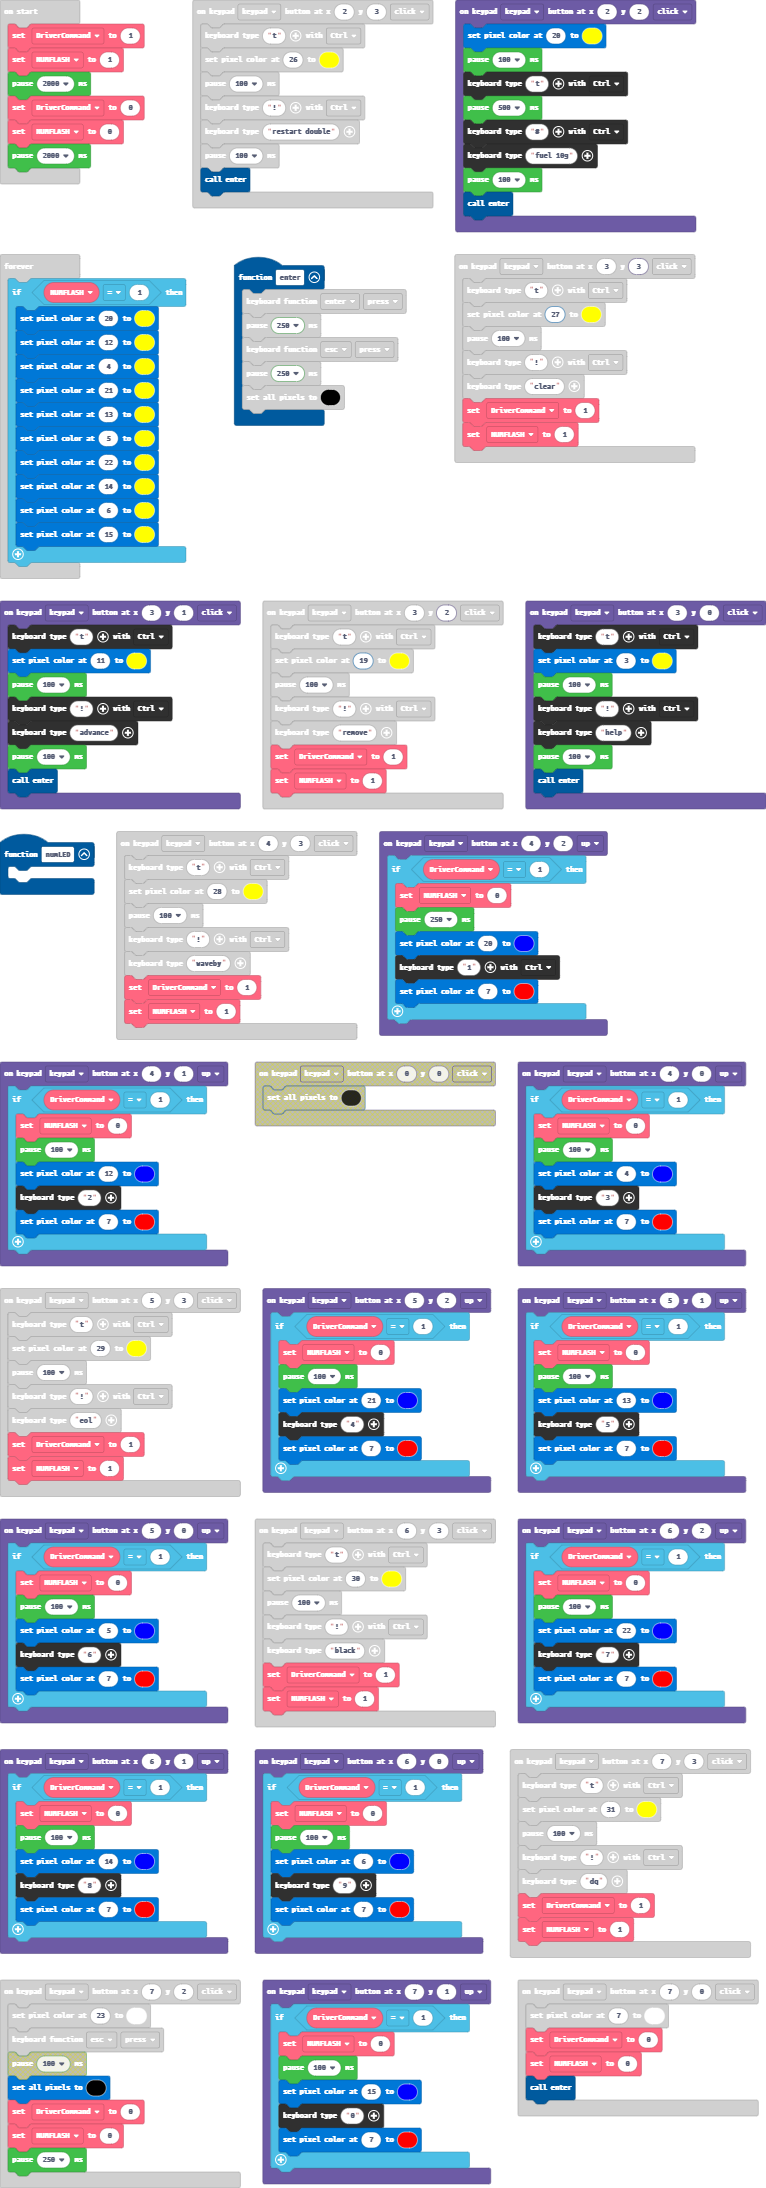
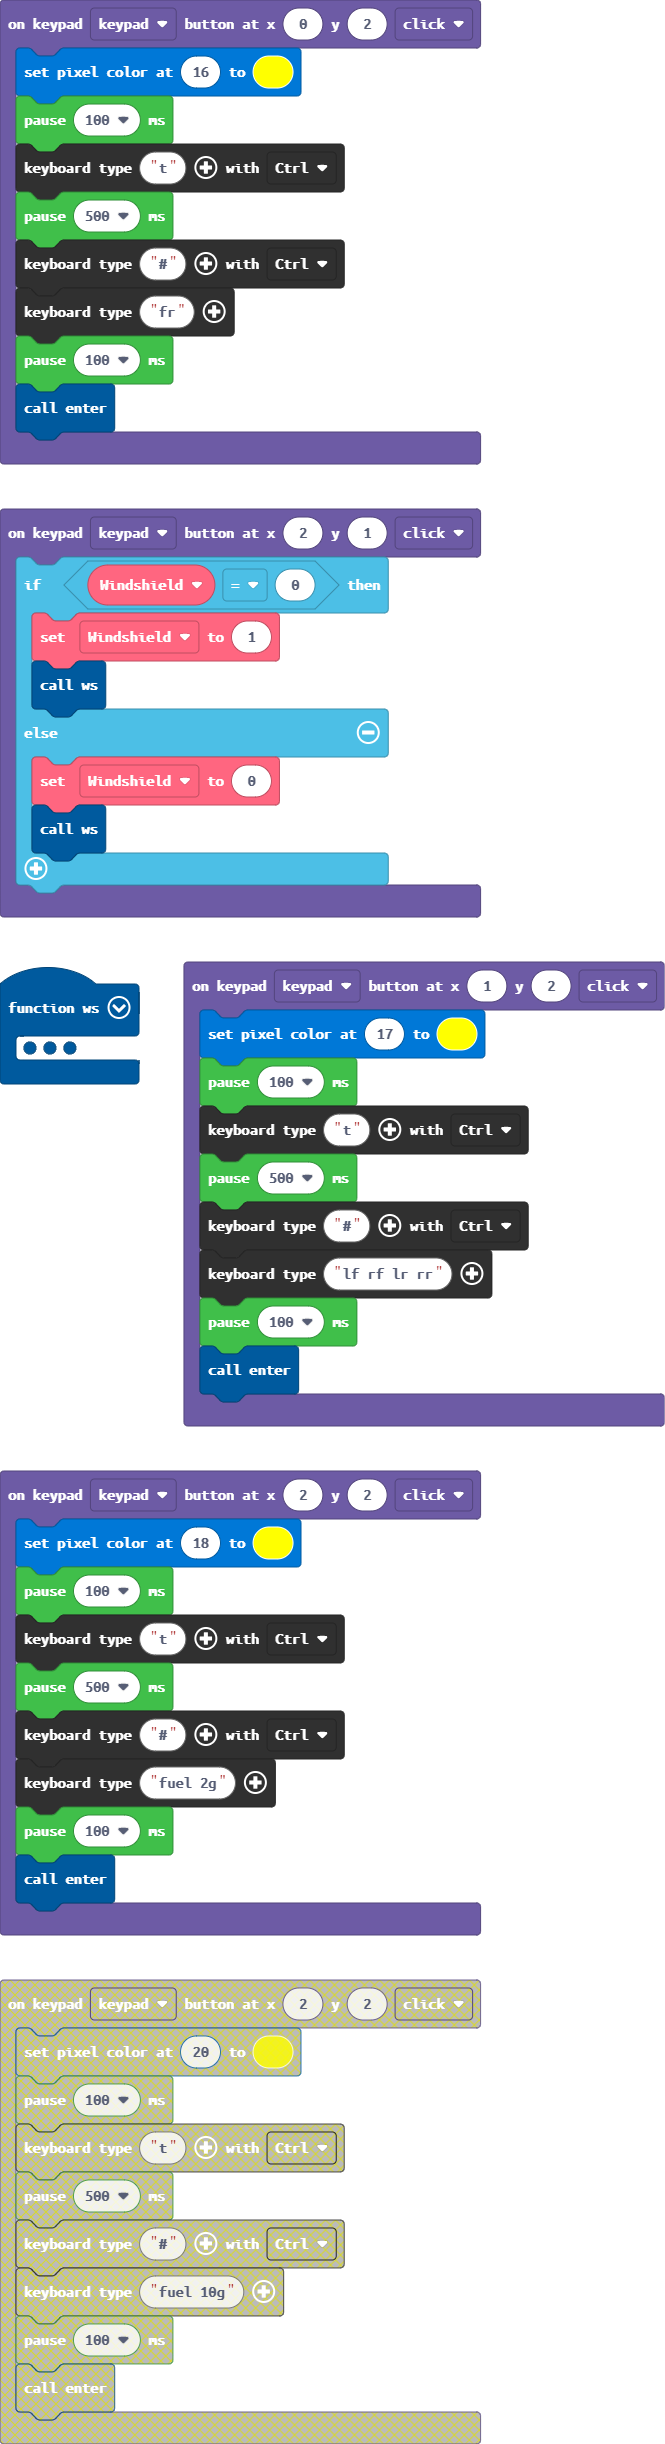
Update main.blocks, main.ts

diff --git a/main.ts b/main.ts
@@ -7,6 +7,16 @@ matrixKeypad.keypad.onEvent(3, 3, MatrixKeypadButtonEvent.Click, function () {
     DriverCommand = 1
     NUMFLASH = 1
 })
+matrixKeypad.keypad.onEvent(1, 2, MatrixKeypadButtonEvent.Click, function () {
+    light.setPixelColor(17, 0xffff00)
+    pause(100)
+    keyboard.type("t")
+    pause(500)
+    keyboard.type("#")
+    keyboard.type("lf rf lr rr")
+    pause(100)
+    enter()
+})
 matrixKeypad.keypad.onEvent(4, 3, MatrixKeypadButtonEvent.Click, function () {
     keyboard.type("t")
     light.setPixelColor(28, 0xffff00)
@@ -15,6 +25,16 @@ matrixKeypad.keypad.onEvent(4, 3, MatrixKeypadButtonEvent.Click, function () {
     keyboard.type("waveby")
     DriverCommand = 1
     NUMFLASH = 1
+})
+matrixKeypad.keypad.onEvent(0, 2, MatrixKeypadButtonEvent.Click, function () {
+    light.setPixelColor(16, 0xffff00)
+    pause(100)
+    keyboard.type("t")
+    pause(500)
+    keyboard.type("#")
+    keyboard.type("fr")
+    pause(100)
+    enter()
 })
 matrixKeypad.keypad.onEvent(0, 3, MatrixKeypadButtonEvent.Click, function () {
     keyboard.type("t")
@@ -32,6 +52,15 @@ matrixKeypad.keypad.onEvent(7, 1, MatrixKeypadButtonEvent.Up, function () {
         light.setPixelColor(15, 0x0000ff)
         keyboard.type("0")
         light.setPixelColor(7, 0xff0000)
+    }
+})
+matrixKeypad.keypad.onEvent(2, 1, MatrixKeypadButtonEvent.Click, function () {
+    if (Windshield == 0) {
+        Windshield = 1
+        ws()
+    } else {
+        Windshield = 0
+        ws()
     }
 })
 matrixKeypad.keypad.onEvent(4, 1, MatrixKeypadButtonEvent.Up, function () {
@@ -94,6 +123,27 @@ matrixKeypad.keypad.onEvent(3, 0, MatrixKeypadButtonEvent.Click, function () {
     pause(100)
     enter()
 })
+function ws () {
+    if (Windshield == 1) {
+        light.setPixelColor(10, 0xffff00)
+        pause(100)
+        keyboard.type("t")
+        pause(500)
+        keyboard.type("#")
+        keyboard.type("ws")
+        keyboard.functionKey(KeyboardFunctionKey.Enter, KeyboardKeyEvent.Press)
+        keyboard.functionKey(KeyboardFunctionKey.Esc, KeyboardKeyEvent.Press)
+    } else {
+        light.setPixelColor(10, 0x000000)
+        pause(100)
+        keyboard.type("t")
+        pause(500)
+        keyboard.type("#")
+        keyboard.type("!ws")
+        keyboard.functionKey(KeyboardFunctionKey.Enter, KeyboardKeyEvent.Press)
+        keyboard.functionKey(KeyboardFunctionKey.Esc, KeyboardKeyEvent.Press)
+    }
+}
 matrixKeypad.keypad.onEvent(5, 2, MatrixKeypadButtonEvent.Up, function () {
     if (DriverCommand == 1) {
         NUMFLASH = 0
@@ -111,12 +161,12 @@ function enter () {
     light.setAll(0x000000)
 }
 matrixKeypad.keypad.onEvent(2, 2, MatrixKeypadButtonEvent.Click, function () {
-    light.setPixelColor(20, 0xffff00)
+    light.setPixelColor(18, 0xffff00)
     pause(100)
     keyboard.type("t")
     pause(500)
     keyboard.type("#")
-    keyboard.type("fuel 10g")
+    keyboard.type("fuel 2g")
     pause(100)
     enter()
 })
@@ -221,6 +271,7 @@ matrixKeypad.keypad.onEvent(6, 3, MatrixKeypadButtonEvent.Click, function () {
 function numLED () {
 	
 }
+let Windshield = 0
 let NUMFLASH = 0
 let DriverCommand = 0
 DriverCommand = 1
